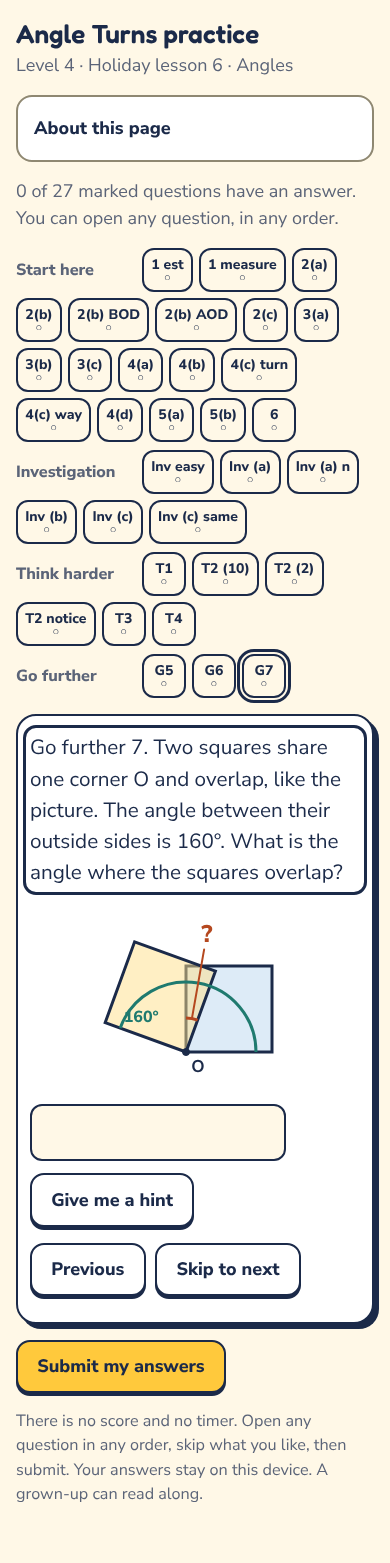
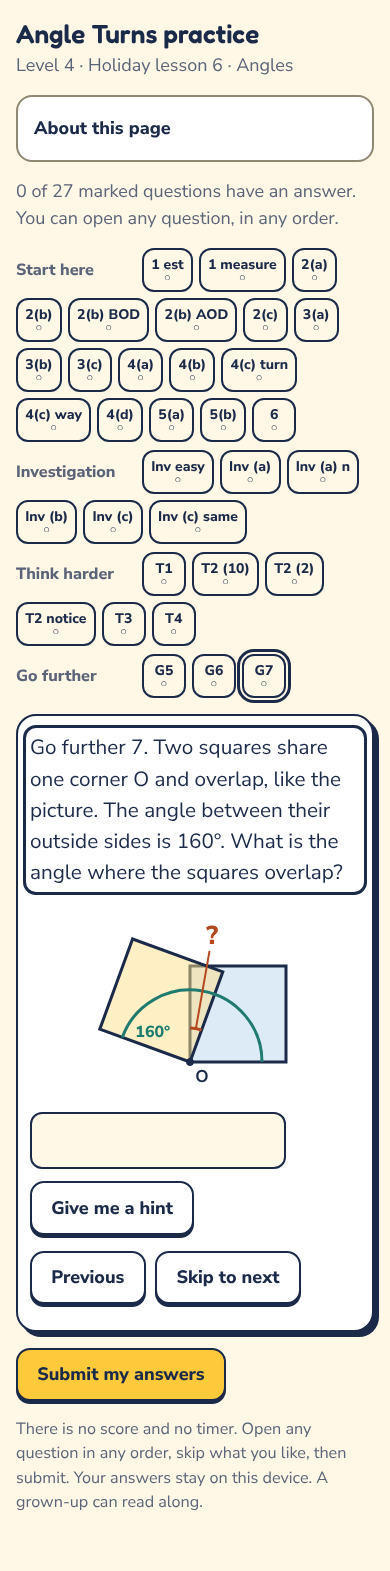
Holiday week 3 online practice, Level 4 (lessons 5 and 6): Decimal Detectives and Angle Turns
Claude-Session: https://claude.ai/code/session_01Wmstm4fTDLXm5Z35vo5Mv2

diff --git a/practice/holiday/p4/STATUS.md b/practice/holiday/p4/STATUS.md
@@ -69,3 +69,29 @@ Open questions:
 - Typed fractions need a slash and mixed numbers a space ("2 3/5"); words ("two and three fifths") are not matched. Typed-fraction and sentence items use the normal text keyboard (no `inputmode`), plain-number items the number pad; worth a real-phone check.
 - L3 target sentences accept every writing found by search; very unusual extra brackets (more than are needed for a sentence of four numbers) are not accepted. Any other correct sentence is accepted.
 - The L4 workbook text writes fractions stacked (HTML); online they are written 3/8, as in the print for the Think harder and Go further pages.
+
+# Week 3 (lessons 5 and 6): Decimal Detectives and Angle Turns
+
+Week 3 = lessons 5 and 6 (Tue 8 Dec and Fri 11 Dec, `website/data/beta_schedule.json`, Level 4 group L4A, confirmed).
+Build: `python3 practice/holiday/build_holiday.py p4 5` (and `p4 6`); test: `python3 practice/holiday/test_holiday.py p4 5` (and `6`). Both pass (RESULT: OK). Sources: `p4/content/l5.js`, `l6.js` (`workbook()`, `gaps.invest`, `qbank.stretch[0:4]`, `qbank.challenge[-3:]`). Level helpers added to `p4/p4lib.py` (Decimal helpers, figures); shared files untouched.
+
+| | Lesson 5 Decimal Detectives | Lesson 6 Angle Turns |
+|---|---|---|
+| Items | 37 | 33 |
+| Auto-marked | 34 | 27 |
+| Self-check with a model answer | 3 (1 open) | 5 (1 open) |
+| Paper-only (protractor) | 0 | 1 (Q1 measure, correct angles shown after submit) |
+| Variant families (all combinations run against an oracle) | 1 (18) | 5 (40) |
+| Question text as printed / reworded to fit one screen | 14 / 23 | 9 / 24 |
+
+Audit rules applied from the start: no stem, hint or example shows another card's answer (e.g. the Investigation hints do not print 0.350/0.360; the 4(a) example uses other cards); hints nudge only; typed explanations are self-checks; every accepted writing listed (6.3, 6.30, 6.300, $4.10, 0.4 kg, 120°); lists accept commas, spaces or "and"; solutions only state facts that were computed.
+
+Not mirrored, or mirrored differently:
+- "Looking back" box (generic reflection), as in weeks 1 and 2.
+- L5: decimal answers are typed text (the number box is whole numbers only), so L5 has only one variant family (whole-number answers only). Q1 is one card per arrow (A to E) plus 1(f). Q5 and G6 are one card per child. Investigation (a) "find a decimal" accepts every decimal between 0.35 and 0.36 up to 5 places (999 writings). Investigation (b) "as many as you can" asks for ALL nine (the printed key says nine). Printed "Is Siti right?" sits after part (a), which already asks to find a decimal between, so the choice is easy (inherent in the print).
+- L6: Q1 estimate is an auto-marked choice of letters (which angles are bigger than a right angle, from the printed key); the measure is paper-only (needs a protractor on the printed page). Q2(b) "name every angle" is a self-check, with two auto cards for the two non-obvious sizes (BOD, AOD) so the stem does not reveal the count in 2(a). Q4(c) answer "135° clockwise" is two cards. Investigation (a) "as many sets as you can" is: find another set (auto), count the sets (auto), explain how you checked (self); 90° sets and 180° sets are counted, not typed in full. Think harder 4 cards are numbered 1 to 4 so the pairs can be typed (1+3, 2+4). The Q1 table "my estimate / I measured" boxes are not typed.
+- No hand-drawn extras: all figures redrawn as SVG (number lines, bar models, scales, jugs, fan, clocks, compass, rectangle/square corners, overlapping squares), checked at 390 px.
+
+Open questions:
+- Decimals need the text keyboard; check on a real phone.
+- Investigation (a) accepts at most 5 decimal places.
